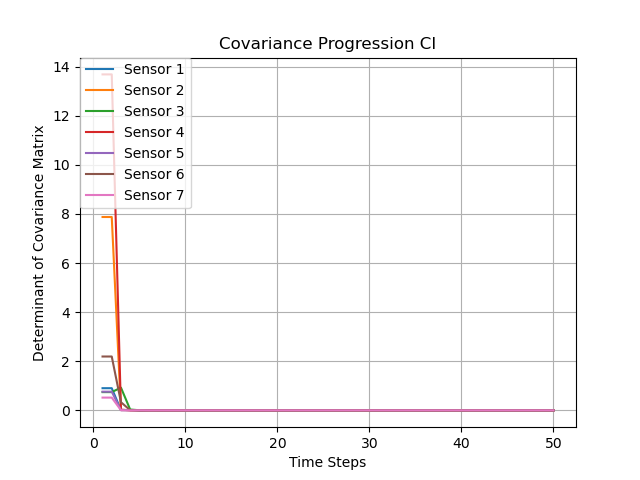
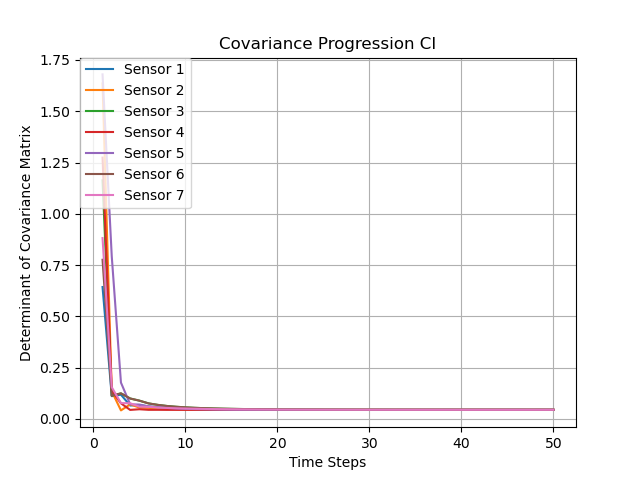
Something is still wrong with ellipsoidal

diff --git a/fusionAlgorithms/ellipsoidalIntersection.py b/fusionAlgorithms/ellipsoidalIntersection.py
@@ -1,0 +1,73 @@
+import numpy as np
+import numpy.linalg as LA
+from scipy.linalg import sqrtm
+from tqdm import tqdm
+
+def eigen_decompostiion(A):
+    #A=S*D*S^-1
+    d, S = LA.eigh(A)
+    D = np.diag(d)
+    return S, D
+
+
+def EI_fusion(P_i_orig, P_j_orig, mu_i, mu_j):
+    #Find mutual covariance and mutual mean
+    #For mutual covariance perform eigen decomposition on P_i
+    P_i = np.copy(P_i_orig)
+    P_j = np.copy(P_j_orig)
+    dims = P_i.shape[0]
+    S_i, D_i = eigen_decompostiion(P_i)
+    P_prime_j = LA.inv(D_i)**0.5 @ LA.inv(S_i) @ P_j @ S_i @ (LA.inv(D_i)**0.5)
+    S_j, D_j = eigen_decompostiion(P_prime_j)
+    D_T = np.diag([min(val, 1) for val in np.diagonal(D_j)])
+    P_mut = S_i @ D_i**0.5 @ S_j @ D_T @ LA.inv(S_j) @ D_i**0.5 @ LA.inv(S_i)
+    #Mutual Mean formula 
+    #W_i = P_i^-1 - P_mut^-1 
+    #W_j = P_j^-1 - P_mut^-1 
+    #mut_mu = (W_i + W_j)^-1 * (W_i*mu_i + W_j * mu_j)
+    #Cannot guarantee W_i and W_j are positive definite (Need to add slight identity matrix)    
+    H = LA.inv(P_i) + LA.inv(P_j)-2*LA.inv(P_mut)
+    #H is a fishers matrix and represents input information (if 0 there is an issue)
+    eta = 0
+    if LA.det(H) == 0:
+        e_vals, _ = LA.eigh(H)
+        e_vals = np.where(e_vals==0, np.inf, e_vals)
+        eta = np.amin(e_vals)
+    if eta == np.inf:
+        print(eta)
+    eta_i = np.multiply(eta,np.identity(dims))
+    W_i = LA.inv(P_i) - LA.inv(P_mut) + eta_i
+    W_j = LA.inv(P_j) - LA.inv(P_mut) + eta_i
+    mu_mut = np.dot(LA.inv(np.add(W_i, W_j).real), np.dot(W_i, mu_i) + np.dot(W_j, mu_j))
+    P_fused = LA.inv(LA.inv(P_i.real) + LA.inv(P_j.real) - LA.inv(P_mut.real))
+    mu_fused = np.dot(P_fused, np.dot(LA.inv(P_i), mu_i) + np.dot(LA.inv(P_j), mu_j) - np.dot(LA.inv(P_mut), mu_mut))
+    return mu_fused, P_fused
+
+
+def ellipsoidalIntersection(sensor_readings, sensor_covariances, N_time_steps, neighbors, N_agents, KL_inp, true_dist, calculate_KL=False, calculate_det=True):
+    count = 0.0
+    KL_div = {}
+    determinant_progression = {}
+    next_data = []
+    for i in range(N_agents):
+        next_data.append([[], []])
+        KL_div[i] = []
+        determinant_progression[i] = [LA.det(sensor_covariances[i])]
+    print("Ellipsoidal Intersection...")
+    for i in tqdm(range(N_time_steps)):
+        for j in range(N_agents):
+            s_mu = sensor_readings[j]
+            s_cov = sensor_covariances[j]
+            for k in neighbors[j][0]:
+                s_mu, s_Cov = EI_fusion(s_cov, sensor_covariances[k], s_mu, sensor_readings[k])
+            next_data[j] = [s_mu, s_cov]
+            if(calculate_KL):
+                dist = multivariate_normal(sensor_readings[j], sensor_covariances[j])
+                KL_div[j].append(compute_KL(true_dist, dist, KL_inp))
+            if(calculate_det):
+                determinant_progression[j].append(LA.det(sensor_covariances[j]))
+        for k in range(N_agents):
+            sensor_readings[k], sensor_covariances[k] = next_data[k][0], next_data[k][1] 
+
+    print("Sensors converged after " + str(i) + " time steps...")
+    return sensor_readings, sensor_covariances, KL_div, determinant_progression

diff --git a/main.py b/main.py
@@ -2,6 +2,7 @@ from tools.generateGraphHypercube import generateGraphHypercube
 from tools.gaussianDistribution import sampleMeasuredSensorFromTrue
 from fusionAlgorithms.centralizedFusion import centralizedAlgorithm
 from fusionAlgorithms.covarianceIntersection import covarianceIntersection
+from fusionAlgorithms.ellipsoidalIntersection import ellipsoidalIntersection
 from tools.KL_divergence import compute_KL
 from scipy.stats import multivariate_normal
 from tools.utils import plot_ellipse, print_all_data
@@ -141,30 +142,36 @@ for ind, cov in enumerate(sensor_covs):
 
 #Centralized Algorithm
 fused_cov, fused_mu = centralizedAlgorithm(np.copy(sensor_covs), np.copy(sensor_mus))
-plot_ellipse(fused_cov, ax, "Centralized Fusion")
+plot_ellipse(fused_cov, ax, "Centralized Fusion", alpha_val=1, color_def='blue')
 
 P_centralized = multivariate_normal(fused_mu, fused_cov)
 
 #CI Decentralized Fusion
-print(np.linalg.det(sensor_covs[0]))
 sensor_mus_CI, sensor_covs_CI, KL_div_CI, determinants_CI = covarianceIntersection(np.copy(sensor_mus), np.copy(sensor_covs), N_time_steps, neighbors, N_agents, KL_inputs, P_centralized, calculate_KL=calculate_KL_guard, calculate_det=calculate_covariance_det)
-print(np.linalg.det(sensor_covs[0]))
-plot_ellipse(sensor_covs_CI[0], ax, "Fused CI")
+plot_ellipse(sensor_covs_CI[0], ax, "Covariance Intersection", alpha_val=1, color_def='purple')
 
-
-output_data = []
-output_data.append(["Centralized Fusion", np.linalg.det(fused_cov), "NA", fused_mu])
-Q = multivariate_normal(sensor_mus_CI[0], sensor_covs_CI[0])
-output_data.append(["Covariance Intersection", np.linalg.det(sensor_covs_CI[0]), compute_KL(P_centralized, Q, KL_inputs), sensor_mus_CI[0]])
-print_all_data(output_data, sensor_covs)
-
-
+#Ellipsoidal Intersection Fusion
+sensor_mus_Ellip, sensor_covs_Ellip, KL_div_Ellip, determinants_Ellip = ellipsoidalIntersection(np.copy(sensor_mus), np.copy(sensor_covs), N_time_steps, neighbors, N_agents, KL_inputs, P_centralized, calculate_KL=calculate_KL_guard, calculate_det=calculate_covariance_det)
+print(sensor_covs_Ellip[0])
+plot_ellipse(sensor_covs_Ellip[0], ax, "Ellipsoidal Intersection", alpha_val=1, color_def='green')
 
 plt.legend(loc='upper left', borderaxespad=0.)
 plt.grid(b = True)
 plt.title("Covariance Ellipses")
 plt.savefig("visualizations/Covariance Ellipses.png")
 plt.show()
+
+
+output_data = []
+output_data.append(["Centralized Fusion", np.linalg.det(fused_cov), "NA", fused_mu])
+Q = multivariate_normal(sensor_mus_CI[0], sensor_covs_CI[0])
+output_data.append(["Covariance Intersection", np.linalg.det(sensor_covs_CI[0]), compute_KL(P_centralized, Q, KL_inputs), sensor_mus_CI[0]])
+Q = multivariate_normal(sensor_mus_Ellip[0], sensor_covs_Ellip[0])
+output_data.append(["Ellipsoidal Intersection", np.linalg.det(sensor_covs_Ellip[0]), compute_KL(P_centralized, Q, KL_inputs), sensor_mus_Ellip[0]])
+print_all_data(output_data, sensor_covs)
+
+
+
 
 if(calculate_KL_guard):    
     ax = plt.axes()

diff --git a/fusionAlgorithms/covarianceIntersection.py b/fusionAlgorithms/covarianceIntersection.py
@@ -17,18 +17,20 @@ def CI(mu_s, cov_s, weights):
     for mu, cov, w in zip(mu_s, cov_s, weights):
         total_mu = np.add(total_mu, w*np.dot(LA.inv(cov), mu))
         total_cov = np.add(total_cov, w*LA.inv(cov))
-    
+
     comb_cov = LA.inv(total_cov)
     mu_comb = np.dot(comb_cov, total_mu)
     return mu_comb, comb_cov
 
-def find_optimal_cov_and_mu_random_sampling(iter, mu_s, cov_s, count):
+def find_optimal_cov_and_mu_random_sampling(iterations, mu_s, cov_s, count):
     N_agents = len(mu_s)
     default_weights = np.full((N_agents, ), 1./len(mu_s))
     mu, cov = CI(mu_s, cov_s, default_weights)
-    for i in range(iter):
+    for i in range(iterations):
         weights = np.random.rand(N_agents, )
-        weights/= sum(weights)
+        while(not sum(weights) == 1):
+            weights = np.random.rand(N_agents, )
+            weights /= sum(weights)
         pot_mu, pot_cov = CI(mu_s, cov_s, weights)
         count_used = False
         if LA.det(pot_cov) < LA.det(cov):
@@ -45,6 +47,8 @@ def find_optimal_cov_and_mu_analytical(iter, mu_s, cov_s, count):
     det = np.array([LA.det(c) for c in cov_s])
     weights = det/np.sum(det)
     weights = max(weights) - weights
+    if(sum(weights) == 0):
+        weights = default_weights
     pot_mu, pot_cov = CI(mu_s, cov_s, weights)
     count_used = False
     if LA.det(pot_cov) < LA.det(cov):
@@ -74,25 +78,13 @@ def covarianceIntersection(sensor_readings, sensor_covariances, N_time_steps, ne
                 cov_s.append(sensor_covariances[k])
             next_data[j][0], next_data[j][1], count = find_optimal_cov_and_mu_analytical(100, mu_s, cov_s, count)
             if(calculate_KL):
-                dist = multivariate_normal(sensor_readings[j], sensor_covariances[j])
+                dist = multivariate_normal(next_data[j][0], next_data[j][1])
                 KL_div[j].append(compute_KL(true_dist, dist, KL_inp))
             if(calculate_det):
-                determinant_progression[j].append(LA.det(sensor_covariances[j]))
+                determinant_progression[j].append(LA.det(next_data[j][1]))
         for j in range(N_agents):
             sensor_readings[j] = next_data[j][0]
             sensor_covariances[j] = next_data[j][1]
-        converged = True
-        ref_det = round(LA.det(sensor_covariances[0]), 10)
-        for k in range(1, N_agents):
-            if not round(LA.det(sensor_covariances[k]), 10) == ref_det:
-                converged = False
-                break
-        if converged:
-            N_time_steps = i
-            break
 
-    percent = (count/(N_time_steps*N_agents))*100
-    print("Sensors converged after " + str(i) + " time steps...")
-    print("Percent of time alternative weights used: " + str(percent) + " %")
     return sensor_readings, sensor_covariances, KL_div, determinant_progression
 

diff --git a/tools/utils.py b/tools/utils.py
@@ -9,12 +9,12 @@ def toTuple(arr):
     except TypeError:
         return arr
 
-def plot_ellipse(covariance, ax, label_t):
+def plot_ellipse(covariance, ax, label_t, alpha_val=0.25, color_def='red'):
     if covariance.shape[0] == 2:
         x_el = np.array([np.sin(np.linspace(0, 2*math.pi, num=63)), np.cos(np.linspace(0, 2*math.pi, num=63))])
         C = np.linalg.cholesky(covariance)
         y_el = np.dot(C, x_el)
-        ax.plot(y_el[0], y_el[1], label=label_t)
+        ax.plot(y_el[0], y_el[1], label=label_t, alpha=alpha_val, color=color_def)
 
 def check_if_singular(M):
     return LA.det(M) == 0
